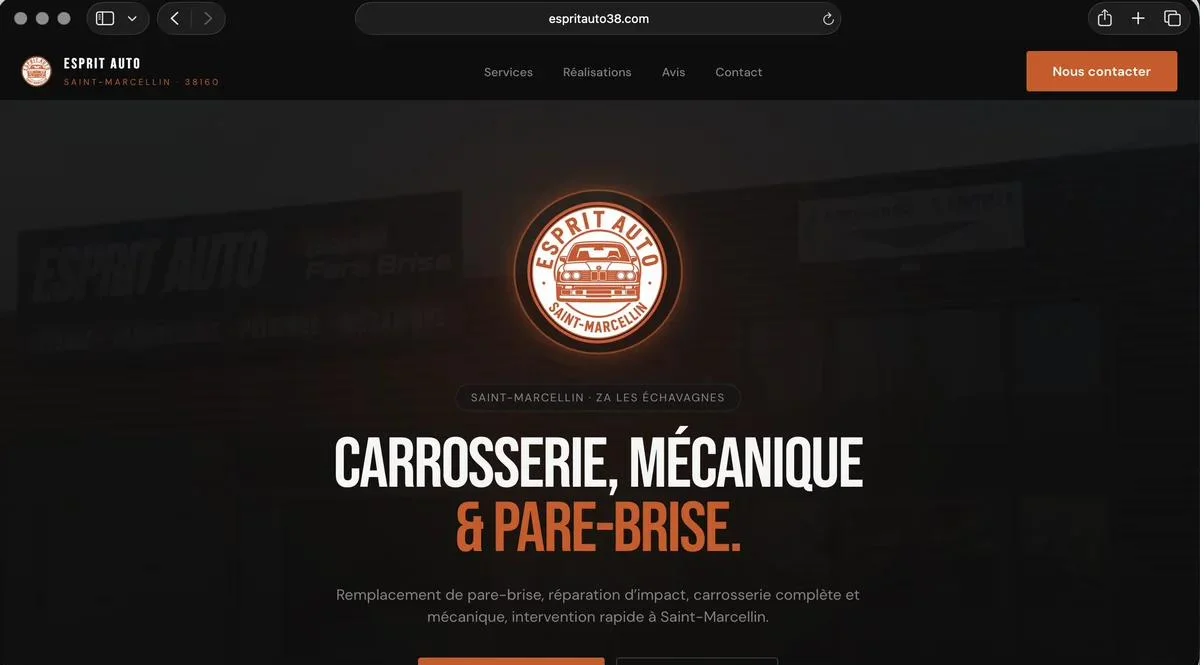
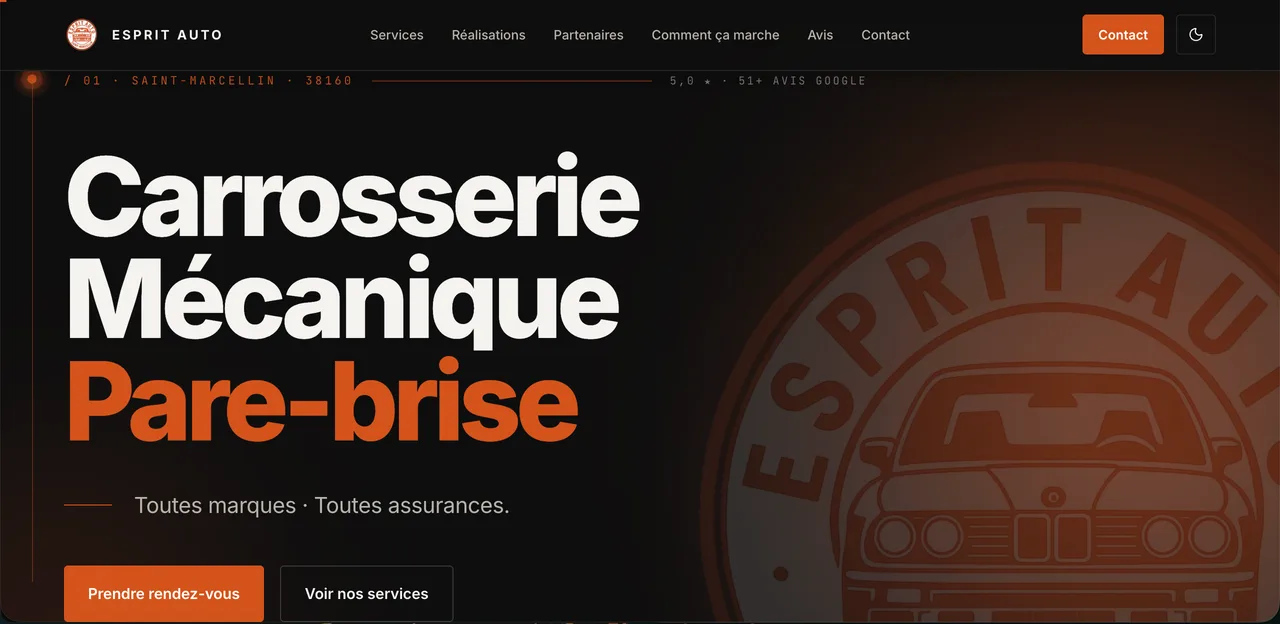
Réalisations: capture Esprit Auto à jour, ajout Team Solution Garage, cadre visuels en 2/1

diff --git a/src/app/page.tsx b/src/app/page.tsx
@@ -248,6 +248,26 @@ export default function Home() {
               </a>
             </article>
 
+            {/* Projet 2 : Team Solution Garage */}
+            <article className="work-item reveal">
+              <div className="work-meta">
+                <div className="work-tags">
+                  <span className="work-tag">Site asso</span>
+                  <span className="work-tag">Club moto</span>
+                  <span className="work-tag">Sur-mesure</span>
+                </div>
+                <h3 className="work-title">Team Solution Garage <em>, Le Pont-de-Claix</em></h3>
+                <p className="work-desc">Site vitrine pour une association de roulage moto sur circuit. Présentation du club et de l&apos;esprit paddock, formulaire d&apos;adhésion en ligne avec confirmation automatique par email, espace sponsors et partenaires. Pensé pour accueillir débutants comme pilotes confirmés.</p>
+                <a href="https://teamsolutiongarage.fr" target="_blank" rel="noopener" className="work-link">
+                  Voir le site en ligne
+                  <svg width="14" height="14" viewBox="0 0 24 24" fill="none" stroke="currentColor" strokeWidth="2"><path d="M7 17L17 7M9 7h8v8" /></svg>
+                </a>
+              </div>
+              <a href="https://teamsolutiongarage.fr" target="_blank" rel="noopener" className="work-visual">
+                <img src="tsgpreview.webp" alt="Aperçu du site Team Solution Garage" loading="lazy" />
+              </a>
+            </article>
+
             <p className="work-cta-line reveal">
               D&apos;autres projets en cours, en discussion privée. Pour en discuter, <a href="#contact">c&apos;est ici &rarr;</a>
             </p>

diff --git a/src/app/globals.css b/src/app/globals.css
@@ -1788,7 +1788,7 @@ button { cursor: pointer; font-family: inherit; border: none; background: none; 
 
 .work-visual {
   position: relative;
-  aspect-ratio: 4 / 3;
+  aspect-ratio: 2 / 1;
   border-radius: var(--radius-lg);
   overflow: hidden;
   background: var(--mist);
